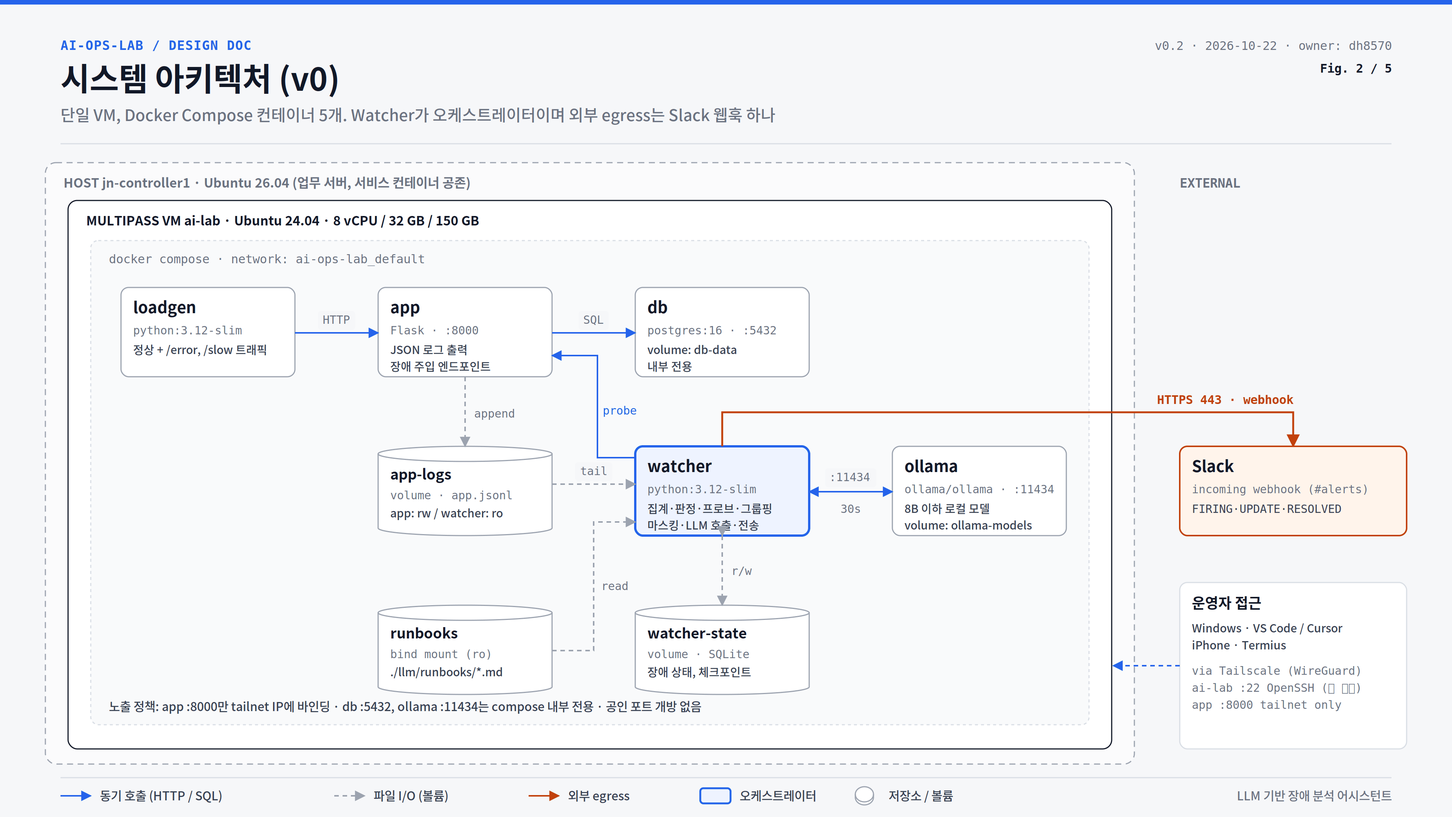
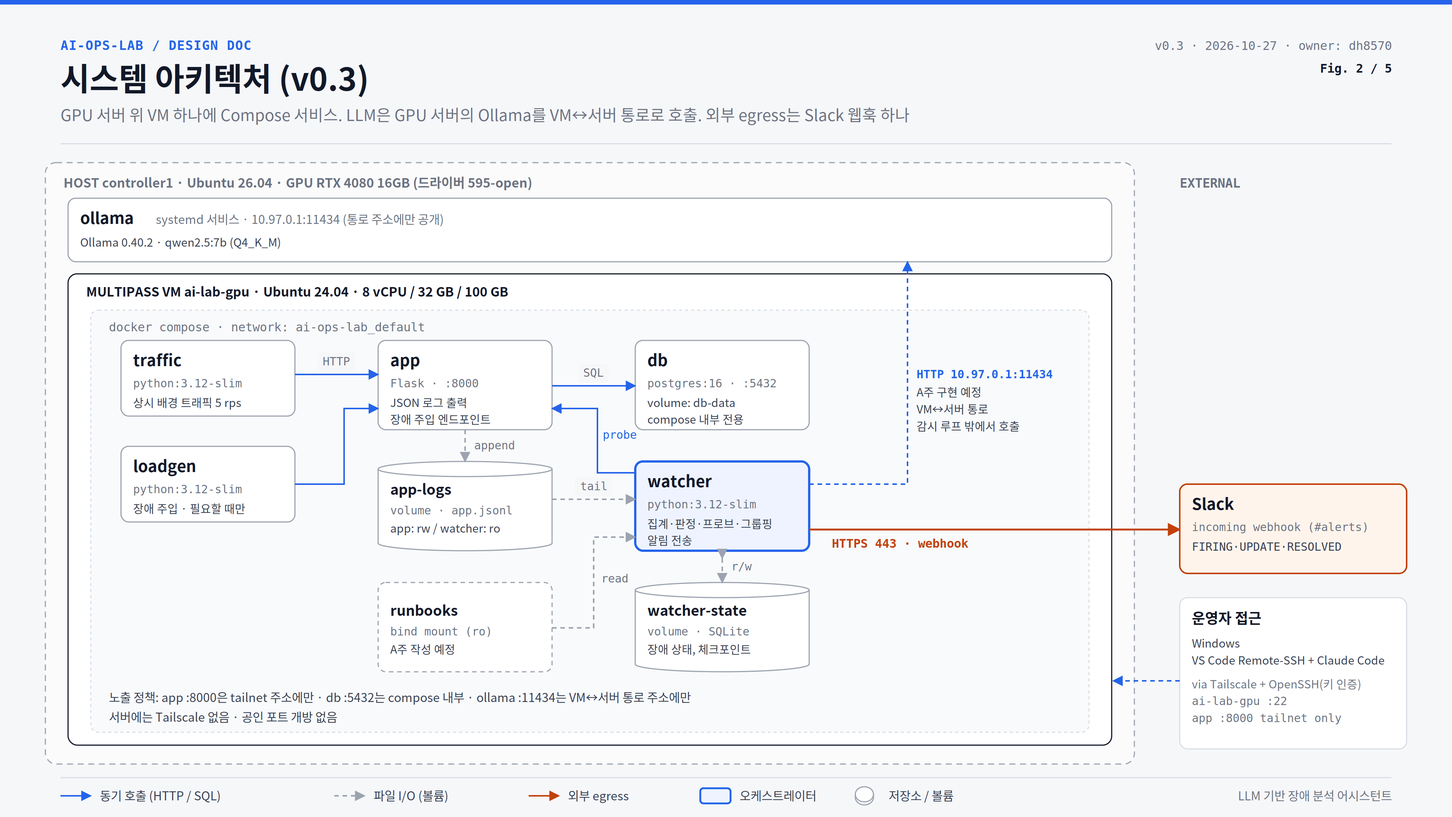
docs(figures): 설계 그림 Fig 2·5를 v0.3으로 갱신하고 계획 문서를 4주 AI 우선 일정에 맞춤
- Fig 2: GPU 서버(controller1)와 Ollama, VM ai-lab-gpu, traffic·loadgen 분리, runbooks 예정 표시, Watcher→Ollama는 구현 예정(점선)
- Fig 5: 24주 교체 로드맵을 4주 AI 우선 로드맵(날짜 가로축, 완료 기준)으로 교체
- build.py: 그림 번호를 골라 다시 그림(인자 없으면 5장 전부), README에 사용법과 버전 규칙
- ai-first-4weeks.md: 일정(A~D), 원칙 두 줄, B·C·D주 내용을 현재 계획으로 갱신
- PROJECT_CONTEXT.md: 그림 버전, Ollama 공개 상태, 진행 상황
알려진 후속: A주 할 일 줄 교체와 계획 문서 안의 표·본문 불일치는 후속 PR(docs/plan-consistency)에서 정리

diff --git a/docs/figures/src/fig2.py b/docs/figures/src/fig2.py
@@ -1,13 +1,21 @@
 from lib import *
-s = frame("시스템 아키텍처 (v0)", "단일 VM, Docker Compose 컨테이너 5개. Watcher가 오케스트레이터이며 외부 egress는 Slack 웹훅 하나", 2, legend=[("solid", C["blue"], "동기 호출 (HTTP / SQL)"), ("dash", C["line"], "파일 I/O (볼륨)"),
-           ("solid", C["orange"], "외부 egress"), ("box", None, "오케스트레이터"), ("cyl", None, "저장소 / 볼륨")])
+s = frame("시스템 아키텍처 (v0.3)", "GPU 서버 위 VM 하나에 Compose 서비스. LLM은 GPU 서버의 Ollama를 VM↔서버 통로로 호출. 외부 egress는 Slack 웹훅 하나", 2,
+          legend=[("solid", C["blue"], "동기 호출 (HTTP / SQL)"), ("dash", C["line"], "파일 I/O (볼륨)"),
+                  ("solid", C["orange"], "외부 egress"), ("box", None, "오케스트레이터"), ("cyl", None, "저장소 / 볼륨")],
+          ver="v0.3 · 2026-10-27")                       # Fig 2·5만 v0.3 (lib.VERSION은 v0.2로 둔다)
 # boundaries
 s.rect(60, 215, 1440, 795, fill="#FBFBFC", stroke=C["line"], rx=14, dash="8 6")
-s.text(84, 248, "HOST  jn-controller1 · Ubuntu 26.04 (업무 서버, 서비스 컨테이너 공존)", 17, 600, C["muted"], mono=False)
-s.rect(90, 265, 1380, 725, fill=C["panel"], stroke=C["ink"], rx=12, sw=1.5)
-s.text(114, 298, "MULTIPASS VM  ai-lab · Ubuntu 24.04 · 8 vCPU / 32 GB / 150 GB", 17, 600, C["ink"])
-s.rect(120, 318, 1320, 640, fill="#F9FAFB", stroke=C["border"], rx=10, dash="4 4")
-s.text(144, 348, "docker compose · network: ai-ops-lab_default", 16, 400, C["muted"], mono=True)
+s.text(84, 248, "HOST  controller1 · Ubuntu 26.04 · GPU RTX 4080 16GB (드라이버 595-open)", 17, 600, C["muted"], mono=False)
+# ollama: VM 바깥, 서버에 직접 (systemd 서비스)
+s.rect(90, 262, 1380, 84, fill=C["panel"], stroke=C["line"], rx=10, sw=1.5)
+s.text(106, 296, "ollama", 21, 700, C["ink"])
+s.text(206, 296, "systemd 서비스 · 10.97.0.1:11434 (통로 주소에만 공개)", 16, 400, C["muted"])   # 한글이 있으면 mono 금지(DejaVu Mono에 한글 글리프 없음)
+s.text(106, 326, "Ollama 0.40.2 · qwen2.5:7b (Q4_K_M)", 15, 400, C["body"])
+# VM
+s.rect(90, 362, 1380, 623, fill=C["panel"], stroke=C["ink"], rx=12, sw=1.5)
+s.text(114, 392, "MULTIPASS VM  ai-lab-gpu · Ubuntu 24.04 · 8 vCPU / 32 GB / 100 GB", 17, 600, C["ink"])
+s.rect(120, 410, 1320, 558, fill="#F9FAFB", stroke=C["border"], rx=10, dash="4 4")
+s.text(144, 438, "docker compose · network: ai-ops-lab_default", 16, 400, C["muted"], mono=True)
 
 def box(x, y, name, img, note, accent=False, w=230, h=118):
     s.rect(x, y, w, h, fill=C["bluet"] if accent else C["panel"], stroke=C["blue"] if accent else C["line"], rx=10, sw=3 if accent else 1.5)
@@ -20,40 +28,52 @@ def vol(x, y, name, kind, note, w=230, h=118):
     s.text(x + 16, y + 70, kind, 15, 400, C["muted"], mono=True)
     s.text(x + 16, y + 94, note, 15, 400, C["body"])
 
-c = [160, 500, 840, 1180]; r = [380, 590, 800]
-box(c[0], r[0], "loadgen", "python:3.12-slim", ["정상 + /error, /slow 트래픽"])
+c = [160, 500, 840, 1180]; r = [450, 610, 770]
+box(c[0], r[0], "traffic", "python:3.12-slim", ["상시 배경 트래픽 5 rps"], h=100)
+box(c[0], r[1] - 20, "loadgen", "python:3.12-slim", ["장애 주입 · 필요할 때만"], h=100)
 box(c[1], r[0], "app", "Flask · :8000", ["JSON 로그 출력", "장애 주입 엔드포인트"])
-box(c[2], r[0], "db", "postgres:16 · :5432", ["volume: db-data", "내부 전용"])
+box(c[2], r[0], "db", "postgres:16 · :5432", ["volume: db-data", "compose 내부 전용"])
 vol(c[1], r[1], "app-logs", "volume · app.jsonl", "app: rw / watcher: ro")
-box(c[2], r[1], "watcher", "python:3.12-slim", ["집계·판정·프로브·그룹핑", "마스킹·LLM 호출·전송"], accent=True)
-box(c[3], r[1], "ollama", "ollama/ollama · :11434", ["8B 이하 로컬 모델", "volume: ollama-models"])
-vol(c[1], r[2], "runbooks", "bind mount (ro)", "./llm/runbooks/*.md")
+box(c[2], r[1], "watcher", "python:3.12-slim", ["집계·판정·프로브·그룹핑", "알림 전송"], accent=True)
+# runbooks: 아직 없음 -> 점선 테두리
+s.rect(c[1], r[2], 230, 118, fill=C["panel"], stroke=C["line"], rx=10, sw=1.5, dash="6 5")
+s.text(c[1] + 16, r[2] + 44, "runbooks", 19, 700, C["ink"])
+s.text(c[1] + 16, r[2] + 70, "bind mount (ro)", 15, 400, C["muted"], mono=True)
+s.text(c[1] + 16, r[2] + 94, "A주 작성 예정", 15, 400, C["body"])
 vol(c[2], r[2], "watcher-state", "volume · SQLite", "장애 상태, 체크포인트")
 
 B, G, O = C["blue"], C["line"], C["orange"]
-s.path(f"M{c[0]+230},440 H{c[1]}", B); s.label_bg((c[0]+230+c[1])/2, 428, "HTTP")
-s.path(f"M{c[1]+230},440 H{c[2]}", B); s.label_bg((c[1]+230+c[2])/2, 428, "SQL")
-s.path(f"M{c[1]+115},498 V{r[1]}", G, dash="6 5"); s.text(c[1]+127, 552, "append", 15, 400, C["muted"], mono=True)
-s.path(f"M{c[1]+230},640 H{c[2]}", G, dash="6 5"); s.label_bg((c[1]+230+c[2])/2, 628, "tail")
-s.path(f"M{c[1]+230},860 H{c[1]+285} V690 H{c[2]}", G, dash="6 5"); s.text(c[1]+295, 780, "read", 15, 400, C["muted"], mono=True)
-s.path(f"M{c[2]+115},708 V{r[2]}", G, dash="6 5", start=True); s.text(c[2]+127, 760, "r/w", 15, 400, C["muted"], mono=True)
-s.path(f"M{c[2]+230},650 H{c[3]}", B, start=True); s.label_bg((c[2]+230+c[3])/2, 636, ":11434")
-s.text((c[2]+230+c[3])/2, 678, "30s", 15, 400, C["muted"], "middle", mono=True)
-s.path(f"M{c[2]},605 H790 V470 H{c[1]+230}", B)
-s.text(797, 548, "probe", 15, 400, C["blue"], mono=True)
+# traffic / loadgen -> app
+s.path(f"M{c[0]+230},{r[0]+45} H{c[1]}", B); s.label_bg((c[0]+230+c[1])/2, r[0]+33, "HTTP")
+s.path(f"M{c[0]+230},{r[1]+30} H{c[1]-45} V{r[0]+90} H{c[1]}", B)
+# app -> db
+s.path(f"M{c[1]+230},{r[0]+60} H{c[2]}", B); s.label_bg((c[1]+230+c[2])/2, r[0]+48, "SQL")
+s.path(f"M{c[1]+115},{r[0]+118} V{r[1]}", G, dash="6 5"); s.text(c[1]+127, r[0]+144, "append", 15, 400, C["muted"], mono=True)
+s.path(f"M{c[1]+230},{r[1]+50} H{c[2]}", G, dash="6 5"); s.label_bg((c[1]+230+c[2])/2, r[1]+38, "tail")
+s.path(f"M{c[1]+230},{r[2]+60} H{c[1]+285} V{r[1]+100} H{c[2]}", G, dash="6 5"); s.text(c[1]+295, r[1]+160, "read", 15, 400, C["muted"], mono=True)
+s.path(f"M{c[2]+115},{r[1]+128} V{r[2]}", G, dash="6 5", start=True); s.text(c[2]+127, r[1]+144, "r/w", 15, 400, C["muted"], mono=True)
+# probe: watcher -> app
+s.path(f"M{c[2]},{r[1]+15} H790 V{r[0]+90} H{c[1]+230}", B)
+s.text(797, r[0]+130, "probe", 15, 400, C["blue"], mono=True)
+# watcher -> ollama (VM 경계를 넘어 서버로). 아직 Watcher가 Ollama를 부르지 않으므로 점선 (A주 구현 예정)
+s.path(f"M{c[2]+230},{r[1]+30} H1200 V346", B, dash="6 5")
+s.text(1212, 500, "HTTP 10.97.0.1:11434", 15, 600, C["blue"], mono=True)
+s.lines(1212, 524, ["A주 구현 예정", "VM↔서버 통로", "감시 루프 밖에서 호출"], 15, 1.5, col=C["body"])
 # egress
-s.path(f"M{c[2]+115},{r[1]} V545 H1710 V590", O, 2.5)
-s.text(1530, 534, "HTTPS 443 · webhook", 16, 600, C["orange"], mono=True)
+s.path(f"M{c[2]+230},{r[1]+90} H1560", O, 2.5)
+s.text(1100, r[1]+114, "HTTPS 443 · webhook", 16, 600, C["orange"], mono=True)
 s.text(1560, 248, "EXTERNAL", 17, 600, C["muted"], mono=True)
-s.rect(1560, 590, 300, 118, fill=C["oranget"], stroke=C["orange"], rx=10, sw=2)
-s.text(1576, 624, "Slack", 21, 700, C["ink"]); s.text(1576, 652, "incoming webhook (#alerts)", 15, 400, C["muted"], mono=True)
-s.text(1576, 678, "FIRING·UPDATE·RESOLVED", 15, 400, C["body"], mono=True)
+s.rect(1560, 640, 300, 118, fill=C["oranget"], stroke=C["orange"], rx=10, sw=2)
+s.text(1576, 674, "Slack", 21, 700, C["ink"]); s.text(1576, 702, "incoming webhook (#alerts)", 15, 400, C["muted"], mono=True)
+s.text(1576, 728, "FIRING·UPDATE·RESOLVED", 15, 400, C["body"], mono=True)
 # access
-s.rect(1560, 770, 300, 220, fill=C["panel"], stroke=C["border"], rx=10)
-s.text(1576, 804, "운영자 접근", 19, 700, C["ink"])
-s.lines(1576, 836, ["Windows · VS Code / Cursor", "iPhone · Termius"], 15, 1.5, col=C["body"])
-s.lines(1576, 892, ["via Tailscale (WireGuard)", "ai-lab :22  OpenSSH (키 인증)", "app :8000  tailnet only"], 15, 1.5, col=C["muted"], mono=True)
-s.path("M1560,880 H1472", B, dash="6 5")
+s.rect(1560, 790, 300, 200, fill=C["panel"], stroke=C["border"], rx=10)
+s.text(1576, 824, "운영자 접근", 19, 700, C["ink"])
+s.lines(1576, 856, ["Windows", "VS Code Remote-SSH + Claude Code"], 15, 1.5, col=C["body"])
+s.text(1576, 910, "via Tailscale + OpenSSH(키 인증)", 15, 400, C["muted"])
+s.lines(1576, 932, ["ai-lab-gpu :22", "app :8000  tailnet only"], 15, 1.5, col=C["muted"], mono=True)
+s.path("M1560,900 H1472", B, dash="6 5")
 # exposure note
-s.text(144, 940, "노출 정책: app :8000만 tailnet IP에 바인딩 · db :5432, ollama :11434는 compose 내부 전용 · 공인 포트 개방 없음", 16, 400, C["body"])
+s.text(144, 928, "노출 정책: app :8000은 tailnet 주소에만 · db :5432는 compose 내부 · ollama :11434는 VM↔서버 통로 주소에만", 16, 400, C["body"])
+s.text(144, 954, "서버에는 Tailscale 없음 · 공인 포트 개방 없음", 16, 400, C["body"])
 render(s, "fig2_architecture")

diff --git a/docs/figures/src/fig5.py b/docs/figures/src/fig5.py
@@ -1,52 +1,51 @@
 from lib import *
-s = frame("교체 로드맵과 완료 기준", "흐름은 유지하고 부품만 교체. 모든 교체는 v0 완료 기준을 회귀 테스트로 다시 통과해야 머지", 5,
-          legend=[("box", None, "v0 스켈레톤"), ("solid", C["line"], "교체 단계")])
-x0, wk = 470, 57.5   # week 1 starts at x0
+s = frame("4주 AI 우선 로드맵과 완료 기준", "AI를 어떤 문제에 적용하고, 어떻게 동작하고, 데이터를 어떻게 쓰는지 배우는 4주. 매주 AI 질문 세 가지와 채점표·비교표로 끝낸다", 5,
+          legend=[("box", None, "이번 주 (A)"), ("solid", C["line"], "완료 · 계획")],
+          ver="v0.3 · 2026-10-27")                       # Fig 2·5만 v0.3 (lib.VERSION은 v0.2로 둔다)
+x0, dw = 520, 33.8                                        # 가로축: 10/16부터 하루 dw px, 10/16~11/23 = 39일
+def dx(d): return x0 + d * dw                             # d = 10/16 기준 경과일 (그 날의 시작 위치)
+TODAY = 11                                                # 10/27 = 10/16 + 11일
 s.rect(60, 215, 1800, 560, fill=C["panel"], stroke=C["border"], rx=12)
-for w in range(1, 25):
-    x = x0 + (w - 1) * wk
-    s.add(f'<line x1="{x}" y1="262" x2="{x}" y2="752" stroke="{C["grid"]}" stroke-width="1"/>')
-    s.text(x + wk / 2, 252, f"{w}", 14, 400, C["muted"], "middle", mono=True)
-s.text(90, 252, "주차", 15, 600, C["muted"])
-rows = [("P1", "스켈레톤 v0", "앱 · 로그 · 임계값 · LLM · Slack", 1, 3, True),
-        ("2-1", "로그 수집", "JSON 파일 → ELK", 4, 6, False),
-        ("2-2", "VM 구성", "수동 → Ansible", 7, 8, False),
-        ("2-3", "메트릭", "→ Prometheus · Grafana", 9, 10, False),
-        ("2-4", "이상 탐지", "임계값 → Isolation Forest", 11, 12, False),
-        ("2-5", "지식 활용", "프롬프트 → RAG · pgvector", 13, 15, False),
-        ("2-6", "배치", "→ Airflow 리포트", 16, 17, False),
-        ("2-7", "에이전트", "→ Tool calling · n8n", 18, 18, False),
-        ("2-8", "배포", "→ Terraform · OCI · Actions", 19, 21, False),
-        ("P3", "시연 · 포트폴리오", "장애 시나리오 3종 데모", 22, 24, True)]
+# 주 단위 눈금: 시작(10/16), 직전 주(10/20), 각 주 경계(10/27·11/3·11/10·11/17), 끝(11/23)
+for d, lab in [(0, "10/16"), (4, "10/20"), (11, "10/27"), (18, "11/3"), (25, "11/10"), (32, "11/17"), (39, "11/23")]:
+    s.add(f'<line x1="{dx(d)}" y1="262" x2="{dx(d)}" y2="752" stroke="{C["grid"]}" stroke-width="1"/>')
+    if d != TODAY: s.text(dx(d) + (4 if d == 39 else 0), 252, lab, 14, 400, C["muted"], "end" if d == 39 else "middle", mono=True)
+s.text(90, 252, "단계", 15, 600, C["muted"])
+# (표지, 주제, 결과물 줄들, 시작일, 끝일, 상태, 막대 안 글자). 날짜는 10/16 기준 경과일 [시작, 끝)
+rows = [("완료", "기반", ["앱·로그·Watcher·알림·합격 시험", "+ GPU 서버 이전"], 0, 11, "done", "완료 · 10/16 ~ 10/26"),
+        ("A", "LLM이 장애를 분석하게 하기", ["→ 장애 시나리오 5개 채점표", "+ 탐험 사이트 척추 · 토큰화 단계"], 11, 18, "key", "10/27 ~ 11/2"),
+        ("B", "AI가 쓰는 데이터 · RAG · 현미경 엔진", ["→ RAG 있음 대 없음 비교표", "+ 층별 실제 값을 보는 현미경 화면"], 18, 25, "plan", "11/3 ~ 11/9"),
+        ("C", "규칙 대 ML 비교 (최소) · 현미경 화면", ["→ 규칙 대 ML 비교표 1개"], 25, 32, "plan", "11/10 ~ 11/16"),
+        ("D", "마무리 · 공개 (정적 내보내기)", ["→ 최종 문서 · 시연", "에이전트(tool calling)는 선택"], 32, 39, "plan", "11/17 ~ 11/23")]
 y = 290
-for rid, name, desc, a, b, key in rows:
-    s.text(90, y + 22, rid, 15, 700, C["blue"] if key else C["muted"], mono=True)
-    s.text(150, y + 22, name, 17, 700, C["ink"])
-    bx = x0 + (a - 1) * wk + 3; bw = (b - a + 1) * wk - 6
-    s.rect(bx, y + 2, bw, 30, fill=C["bluet"] if key else "#EEF0F3", stroke=C["blue"] if key else C["line"], rx=6, sw=2 if key else 1.2)
-    tx = bx + bw + 12
-    if tx + len(desc) * 13 > 1840: s.text(bx - 12, y + 23, desc, 15, 400, C["body"], "end")
-    else: s.text(tx, y + 23, desc, 15, 400, C["body"])
-    y += 46
-for w, lab in [(3, "v0 DoD"), (24, "완료")]:
-    x = x0 + w * wk
-    s.add(f'<path d="M{x},{252+6} l9,9 l-9,9 l-9,-9 z" fill="{C["orange"]}"/>' if False else "")
-# DoD + limits
+for tag, name, desc, a, b, st, inside in rows:
+    s.text(90, y + 24, tag, 16, 700, {"done": C["green"], "key": C["blue"]}.get(st, C["muted"]), mono=(st != "done"))   # 한글은 mono 금지
+    s.text(150, y + 24, name, 17, 700, C["ink"])
+    for i, t in enumerate(desc): s.text(150, y + 48 + i * 20, t, 14, 400, C["green"] if st == "done" else C["body"])
+    fill, stroke, sw, dash = {"done": ("#EEF0F3", C["line"], 1.2, None), "key": (C["bluet"], C["blue"], 2.5, None),
+                              "plan": ("#FFFFFF", C["line"], 1.5, None)}[st]
+    bx, bw = dx(a) + 3, (b - a) * dw - 6
+    s.rect(bx, y + 6, bw, 36, fill=fill, stroke=stroke, rx=6, sw=sw, dash=dash)
+    s.text(bx + bw / 2, y + 30, inside, 14, 600, C["ink"] if st == "key" else C["muted"], "middle", mono=st in ("key", "plan"))
+    y += 90
+# A주 시작(10/27) 세로선
+s.add(f'<line x1="{dx(TODAY)}" y1="262" x2="{dx(TODAY)}" y2="752" stroke="{C["orange"]}" stroke-width="2.5"/>')
+s.text(dx(TODAY), 252, "A주 시작 10/27", 14, 700, C["orange"], "middle", mono=False)
+# 완료 기준 + 범위 밖
 s.rect(60, 795, 1060, 215, fill=C["panel"], stroke=C["border"], rx=12)
-s.text(90, 834, "v0 완료 기준 (Definition of Done) · 회귀 게이트", 19, 700, C["ink"])
-dod = ["/error 주입 후 2분 이내 [FIRING] 알림 도착 (요약·원인 후보는 3주차)",
-       "같은 장애에 대한 FIRING 알림 정확히 1건 (그룹핑)",
-       "Ollama 중지 상태에서도 기본 템플릿 알림 전송 (유실 0건)",
-       "정상 5분 유지 후 [RESOLVED] 알림과 지속 시간 전송"]
-for i, t in enumerate(dod):
+s.text(90, 834, "완료 기준 · 회귀 게이트", 19, 700, C["ink"])
+dod = [("/error 주입 후 2분 이내 [FIRING] 알림 도착 (요약·원인 후보는 A주)", "자동 검증 PASS", C["green"]),
+       ("같은 장애에 대한 FIRING 알림 정확히 1건 (그룹핑)", "자동 검증 PASS", C["green"]),
+       ("Ollama 중지 상태에서도 기본 알림 전송 (유실 0건)", "A주에 자동 검증 추가", C["orange"]),
+       ("정상 5분 유지 후 [RESOLVED] 알림과 지속 시간 전송", "자동 검증 PASS", C["green"])]
+for i, (t, st, col) in enumerate(dod):
     yy = 874 + i * 34
     s.rect(92, yy - 16, 18, 18, fill="#FFFFFF", stroke=C["blue"], rx=4, sw=2)
     s.text(124, yy, t, 16, 400, C["body"])
-    if i in (0, 1, 3):                                   # 알림 항목은 scripts/acceptance/alerts.py로 자동 검증 (2026-10-22 PASS)
-        s.text(1100, yy, "자동 검증 PASS · alerts.py", 14, 600, C["green"], "end", mono=False)
+    s.text(1100, yy, st, 14, 600, col, "end", mono=False)
 s.rect(1140, 795, 720, 215, fill=C["panel"], stroke=C["border"], rx=12)
 s.add(f'<rect x="1140" y="795" width="6" height="215" rx="3" fill="{C["orange"]}"/>')
-s.text(1170, 834, "v0 알려진 한계", 19, 700, C["ink"])
-lim = ["Watcher 자체 장애 미감지 → heartbeat 도입 예정", "자동 복구 없음, 조치는 사람이 결정", "단일 VM · 단일 앱 대상, HA 없음", "고정 임계값 → 트래픽 패턴 변화에 둔감 (2-4에서 보완)"]
-s.lines(1170, 874, ["– " + t for t in lim], 16, 2.1, col=C["body"])
+s.text(1170, 834, "범위 밖 (프로젝트 이후)", 19, 700, C["ink"])
+s.lines(1170, 874, ["ELK · Ansible · Prometheus · Airflow", "Terraform · OCI · GitHub Actions"], 16, 2.1, col=C["body"], mono=True)
+s.text(1170, 966, "AI 단계가 요구할 때만 그 부분을 최소로", 16, 400, C["body"])
 render(s, "fig5_roadmap")

diff --git a/docs/figures/src/build.py b/docs/figures/src/build.py
@@ -1,9 +1,11 @@
 #!/usr/bin/env python3
-"""설계 그림 5장(fig1~fig5)을 한 번에 다시 만든다.
+"""설계 그림 5장(fig1~fig5)을 한 번에, 또는 번호를 골라 다시 만든다.
 
 사용법 (레포 루트에서):
-    python3 docs/figures/src/build.py
+    python3 docs/figures/src/build.py          # 5장 전부
+    python3 docs/figures/src/build.py 2 5      # Fig 2와 5만
 
+- 번호는 1~5만 받는다. 그 밖의 값이면 사용법을 출력하고 종료코드 2로 끝난다.
 - 출력: docs/figures/figN_*.png (3840x2160, 256색 압축, 장당 약 150KB)
 - 버전 표기는 lib.py의 VERSION 한 곳에서 바꾼다.
 - 그림 내용을 바꿀 때는 해당 figN.py의 텍스트·좌표를 고치고 이 스크립트를 다시 실행한다.
@@ -18,7 +20,14 @@ OUT = SRC.parent                                  # docs/figures/
 os.environ["FIG_OUT"] = str(OUT)
 sys.path.insert(0, str(SRC))                      # `from lib import *`가 동작하도록
 
+# 인자가 없으면 5장 전부, 있으면 그 번호만 (중복은 한 번, 번호 순서대로)
+args = sys.argv[1:]
+if any(a not in ("1", "2", "3", "4", "5") for a in args):
+    print("사용법: python3 docs/figures/src/build.py [그림 번호 1~5 ...]  (인자 없으면 5장 전부)", file=sys.stderr)
+    sys.exit(2)
+figs = sorted({int(a) for a in args}) or range(1, 6)
+
 print(f"그림 생성: {OUT}")
-for n in range(1, 6):
+for n in figs:
     runpy.run_path(str(SRC / f"fig{n}.py"))
 print("완료")

diff --git a/docs/plan/ai-first-4weeks.md b/docs/plan/ai-first-4weeks.md
@@ -22,15 +22,17 @@
 - 매주 결과물에 채점표나 비교표가 하나 이상 들어간다.
 - 모르는 용어와 내용은 질문하며 배운다. 새 용어는 docs/glossary.md에 쌓는다.
 - 민감 정보 제거(마스킹)와 에이전트 안전장치는 Opus, 나머지는 Sonnet.
+- 탐험 사이트는 실제 파이프라인의 실행 기록을 보여 주는 뷰어이며, 사이트에만 있는 로직을 만들지 않는다. 화면의 값에는 증거 등급(실측, 계산, 설명용, 미확인)을 붙인다.
+- 모델은 두 길로 쓴다: Ollama(서버 GPU, Q4 압축, 운영용: 장애 알림 요약)와 현미경 엔진(VM CPU, bf16 원본, 학습용: 모든 층의 값을 기록). 현미경 엔진은 알림 경로에 쓰지 않는다.
 
 ## 한눈에 보기
 
 | 주 | 기간 | 주제 | 결과물(완료 기준의 핵심) |
 | --- | --- | --- | --- |
-| A | 10/27 ~ 11/2 | LLM이 장애를 분석하게 하기 | 장애 알림에 분석이 붙음, 장애 시나리오 5개 채점표 |
-| B | 11/3 ~ 11/9 | AI가 쓰는 데이터와 RAG | RAG 있음 대 없음 채점 비교표, 저장 데이터 설명 문서 |
-| C | 11/10 ~ 11/16 | ML 이상 탐지 | 규칙 대 ML 비교표 |
-| D | 11/17 ~ 11/23 | AI 에이전트와 마무리 | 에이전트 대 고정 프롬프트 비교표, 최종 문서 |
+| A | 10/27 ~ 11/2 | LLM이 장애를 분석하게 하기 | 장애 알림에 분석이 붙음, 장애 시나리오 5개 채점표, 탐험 사이트 척추(M0)와 토큰화 단계(M1) |
+| B | 11/3 ~ 11/9 | AI가 쓰는 데이터, RAG, 현미경 엔진 | RAG 있음 대 없음 채점 비교표, 저장 데이터 설명 문서, 현미경 엔진과 층별 화면(M2~M4) |
+| C | 11/10 ~ 11/16 | 규칙 대 ML 비교(최소)와 현미경 마무리 | 규칙 대 ML 비교표 1개, 현미경 화면 마무리(M5) |
+| D | 11/17 ~ 11/23 | 마무리와 공개 | 정적 내보내기(공개 링크), 최종 문서, 시연. 에이전트(tool calling)는 선택 |
 
 ## A주 (10/27 ~ 11/2) LLM이 장애를 분석하게 하기
 
@@ -76,6 +78,7 @@
 - 테이블을 만든다: 장애 / AI 분석(프롬프트, 답, 모델, 시간, 토큰 수) / 사람의 판정(맞음·틀림) / 런북 조각과 벡터.
 - 런북과 과거 장애를 검색해 프롬프트에 넣는다.
 - RAG 전후를 비교한다.
+- 현미경 엔진(M2: Qwen2.5-7B를 VM CPU에서 bf16으로 직접 계산하고 모든 층의 값을 기록·검증)과 층별 화면(M3·M4: 임베딩, Prefill, 첫 토큰, Decode, KV 캐시)을 만든다.
 
 ### 완료 기준
 
@@ -84,7 +87,7 @@
 
 (A·B주까지만 해도 세 질문 모두에 답이 나온다.)
 
-## C주 (11/10 ~ 11/16) ML 이상 탐지
+## C주 (11/10 ~ 11/16) 규칙 대 ML 비교(최소)와 현미경 마무리
 
 ### AI 질문
 
@@ -96,16 +99,14 @@
 
 ### 할 일
 
-- 창 단위 특징을 저장한다.
-- 켜고 끄는 "느린 성능 저하" 장애를 주입한다 (2주차에 규칙이 놓친 사례 재현).
-- Isolation Forest를 학습하고 평가한다.
-- 규칙과 비교한다.
+- 느린 성능 저하 장애를 주입하고 Isolation Forest와 규칙을 비교한다(비교표 1개로 축소).
+- 현미경 화면을 마무리한다(M5: 설명 3단계, 7B 원본과 Ollama 압축본의 대조).
 
 ### 완료 기준
 
-- 규칙 대 ML 비교표 (탐지 시간, 잘못 울림, 놓침).
+- 규칙 대 ML 비교표 1개.
 
-## D주 (11/17 ~ 11/23) AI 에이전트와 마무리
+## D주 (11/17 ~ 11/23) 마무리와 공개
 
 ### AI 질문
 
@@ -117,13 +118,13 @@
 
 ### 할 일
 
-- tool calling(로그 조회, 상태 확인)을 붙이고, 같은 채점표로 비교한다.
-- 마지막 이틀은 최종 문서, 설계 그림, 시연.
+- 정적 내보내기로 공개 링크를 만들고, 최종 문서와 시연을 정리한다.
+- 설계 그림을 정리한다(Fig 2에 explorer·microscope 추가, Fig 3·4 갱신).
+- tool calling(에이전트)과 에이전트 대 고정 프롬프트 비교표는 선택이다.
 
 ### 완료 기준
 
-- 에이전트 대 고정 프롬프트 비교표.
-- 최종 문서.
+- 공개 링크, 최종 문서.
 
 ## 범위 밖 (프로젝트 이후 과제)
 

diff --git a/docs/PROJECT_CONTEXT.md b/docs/PROJECT_CONTEXT.md
@@ -10,7 +10,7 @@
 - 원칙: AI 우선(인프라는 AI 단계를 막을 때만 최소로), 매주 "AI 질문 세 가지"와 채점표·비교표 1개 이상, 모르는 것은 질문하며 배운다(용어는 docs/glossary.md).
 - 계획과 주별 상세는 `docs/plan/ai-first-4weeks.md`가 유일한 원본이다.
 - (구버전) 24주 로드맵(워킹 스켈레톤 후 ELK·Ansible·Prometheus·Airflow·Terraform·OCI 등으로 교체)은 2026-10-27에 4주 AI 우선 계획으로 대체했다.
-- 설계 그림: `docs/figures/` (Fig 1·3·4는 2주차에 v0.2로 갱신, Fig 5는 구버전이라 D주에 다시 그린다).
+- 설계 그림: `docs/figures/` (Fig 2·5는 v0.3, 2026-10-27. Fig 1·3·4는 v0.2. Fig 3·4는 A주 설계 결정 뒤에 고친다).
 
 ## 2. 환경
 
@@ -18,7 +18,7 @@
 | --- | --- |
 | 물리 서버 controller1 | Ubuntu 26.04.1, 논리 CPU 48개, 메모리 251GB, 디스크 1.8TB, GPU RTX 4080 16GB(드라이버 595-open). 기존 업무 서비스는 꺼 둠. 서버에서의 명령 실행은 사용자가 직접 한다 |
 | VM ai-lab-gpu (Multipass) | Ubuntu 24.04, 8코어 / 32GB / 100GB. 모든 실습 공간. 사용자 `ubuntu`. Multipass 1.17.0(업데이트 보류), 스냅샷 `docker-ready`. GPU는 서버에만 있고 VM에는 없다 |
-| VM↔서버 통로 | 10.97.0.0/24, 서버 쪽 10.97.0.1. Ollama는 서버에서 돌고 이 주소(10.97.0.1:11434)에만 공개 예정 |
+| VM↔서버 통로 | 10.97.0.0/24, 서버 쪽 10.97.0.1. Ollama는 서버에서 돌고 이 주소(10.97.0.1:11434)에만 공개 중(2026-10-27 설치, 0.40.2, 모델 qwen2.5:7b Q4_K_M, systemd 서비스) |
 | 접속 | Tailscale + **표준 OpenSSH**. Tailscale은 `--ssh` 없이 쓴다(Tailscale SSH는 끔, 2주차 결정) |
 | 개발 도구 | Windows의 VS Code / Cursor Remote-SSH, Claude Code |
 | 알림 | Slack `#alerts` (Incoming Webhook, `.env`의 `NOTIFY_WEBHOOK_URL`) |
@@ -113,6 +113,8 @@ docker compose stop app; (2분 뒤) docker compose start app                    
   - 2-C 완료: R4 프로브, UPDATE 알림(180초 유예), policy 분리, 단위 테스트 29개, ruff·pytest 검사 스크립트, 알림 합격 시험 자동화(errors·stop 시나리오)
 - 새 서버(controller1 위 ai-lab-gpu)로 이전 완료 (합격 시험 통과)
 - 알림 실패 원인 기록 보강 (PR #5 병합)
+- 탐험 사이트 S0 병합 (PR #7)
+- 현미경 엔진 스파이크 통과: Qwen2.5-7B bf16을 VM CPU에서 실행, Prefill 9.3초(72토큰), Decode 0.66초/토큰, 메모리 14.7GiB
 - **현재: A주 시작** (2026-10-27). 세부는 `docs/plan/ai-first-4weeks.md`
 
 ## 5. 다음 할 일
@@ -165,7 +167,7 @@ Ollama 추가(8B 이하), LLM 호출 전 마스킹·최근 50줄 제한, 런북 
 - Slack 알림 간헐 실패: 원인 미확인. 재발하면 `notify_failed`의 attempts 기록으로 조사
 - app 컨테이너와 이미지 이름표 불일치: 내용은 같을 것으로 추정. 다음 재생성 때 합격 시험으로 확인
 - 서버 root 비밀번호 SSH 허용: 정리 과제
-- 설계 그림 Fig 5는 구버전: D주에 다시 그린다
+- 설계 그림 Fig 2에는 explorer(탐험 사이트)·microscope(현미경 엔진) 서비스가 없다. D주 그림 정리에서 추가한다.
 
 ## 6. 기록 형식 (노션)
 

diff --git a/docs/figures/src/README.md b/docs/figures/src/README.md
@@ -18,16 +18,18 @@ python3 docs/figures/src/build.py
 
 | 파일 | 내용 |
 | --- | --- |
-| `lib.py` | 공통 그리기 도구(색, 도형, 화살표, 머리말·범례), `VERSION`, PNG 변환 |
+| `lib.py` | 공통 그리기 도구(색, 도형, 화살표, 머리말·범례), `VERSION`, PNG 변환. `frame(..., ver=...)`의 `ver`로 그림별 버전 표기를 `VERSION` 대신 지정할 수 있다 |
+| `build.py` | 그림 재생성. 인자 없이 실행하면 5장 전부, `python3 docs/figures/src/build.py 2 5`처럼 번호(1~5)를 주면 그 그림만 다시 그린다 |
 | `fig1.py` | 개요: 문제·접근, 목표 지표, 범위, 알림 예시 |
 | `fig2.py` | 시스템 아키텍처 (호스트 · VM · Compose 경계) |
 | `fig3.py` | 장애 감지 → 알림 시퀀스 (15초 틱, 프로브, UPDATE) |
 | `fig4.py` | 장애 상태 모델과 탐지 규칙(R1~R4)·운영 파라미터 |
-| `fig5.py` | 교체 로드맵(간트)과 v0 완료 기준 |
+| `fig5.py` | 4주 AI 우선 로드맵과 완료 기준 |
 
 ## 수정할 때 지킬 것
 
 - 설계가 바뀌면 `docs/PROJECT_CONTEXT.md`의 설계 결정과 **그림을 같은 PR에서** 함께 고친다.
 - `lib.py`의 `VERSION`을 올린다. (예: v0.2 · 2026-10-22 → v0.3 · 날짜)
+- 현재 버전: Fig 2·5만 v0.3(각 파일의 `frame(..., ver=...)`로 지정)이고, `lib.VERSION`은 나머지 그림(Fig 1·3·4) 때문에 v0.2를 유지한다. Fig 3·4를 A주 설계 결정 뒤에 v0.3으로 올릴 때 `VERSION`도 함께 올린다.
 - 한글이 들어간 줄은 고정폭 글꼴(`mono=True`)로 그리지 않는다. 고정폭 글꼴에는 한글 글리프가 없어 글자가 깨진다.
 - 수정 후 PNG를 눈으로 확인한다. 글자가 상자 밖으로 넘치거나 화살표 라벨이 겹치지 않는지 본다.
